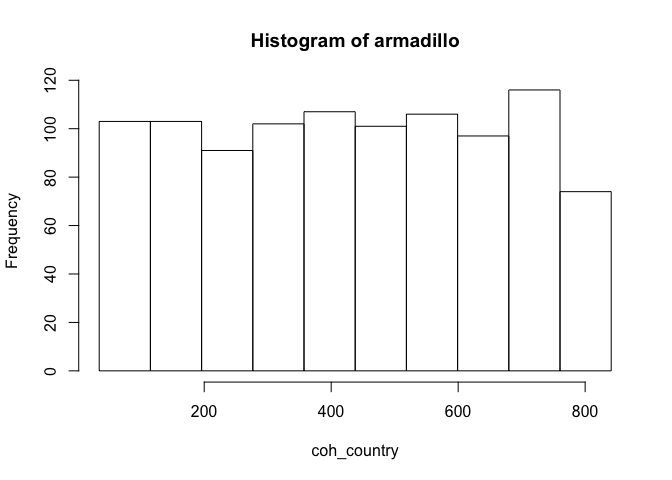
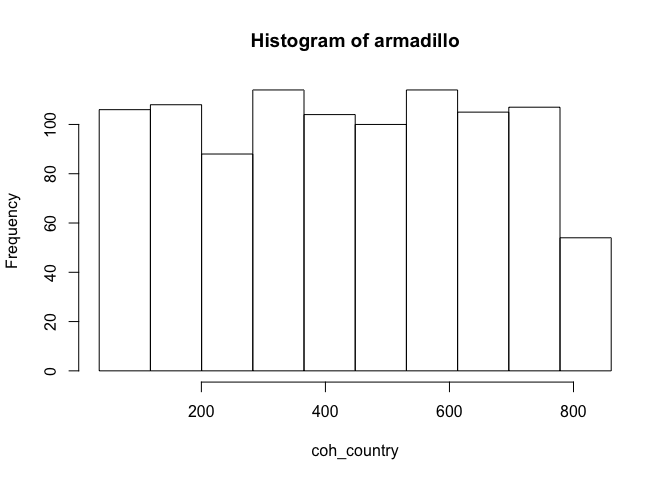
doc: fix README.md
It got generated with wrong version of the package

diff --git a/README.md b/README.md
@@ -107,8 +107,6 @@ documentation to see which methods are available.
 
     # calculate the mean
     ds.mean("core_nonrep$coh_country", datasources = conns)
-    #> [1] "aggregate"
-    #> `meanDS(core_nonrep$coh_country)`
     #> $Mean.by.Study
     #>           EstimatedMean Nmissing Nvalid Ntotal
     #> armadillo       431.105        0   1000   1000
@@ -122,32 +120,24 @@ documentation to see which methods are available.
 
     # create a histogram
     ds.histogram(x = "core_nonrep$coh_country", datasources = conns)
-    #> [1] "aggregate"
-    #> exists("core_nonrep")
-    #> [1] "aggregate"
-    #> classDS("core_nonrep$coh_country")
-    #> [1] "aggregate"
-    #> `histogramDS1(core_nonrep$coh_country,1,3,0.25)`
-    #> [1] "aggregate"
-    #> "histogramDS2(core_nonrep$coh_country,10,34.5963555689156,841.038183310907,1,3,0.25)"
     #> Warning: armadillo: 0 invalid cells
 
 <img src="man/figures/README-unnamed-chunk-8-1.png" width="100%" />
 
     #> $breaks
-    #>  [1]  34.59636 115.24054 195.88472 276.52890 357.17309 437.81727 518.46145
-    #>  [8] 599.10563 679.74982 760.39400 841.03818
+    #>  [1]  35.24049 117.79616 200.35183 282.90750 365.46318 448.01885 530.57452
+    #>  [8] 613.13019 695.68587 778.24154 860.79721
     #> 
     #> $counts
-    #>  [1] 103 103  91 102 107 101 106  97 116  74
+    #>  [1] 106 108  88 114 104 100 114 105 107  54
     #> 
     #> $density
-    #>  [1] 0.0012772155 0.0012772155 0.0011284137 0.0012648153 0.0013268161
-    #>  [6] 0.0012524152 0.0013144159 0.0012028146 0.0014384175 0.0009176111
+    #>  [1] 0.0012839820 0.0013082081 0.0010659473 0.0013808863 0.0012597560
+    #>  [6] 0.0012113038 0.0013808863 0.0012718690 0.0012960951 0.0006541041
     #> 
     #> $mids
-    #>  [1]  74.91845 155.56263 236.20681 316.85100 397.49518 478.13936 558.78354
-    #>  [8] 639.42773 720.07191 800.71609
+    #>  [1]  76.51832 159.07399 241.62967 324.18534 406.74101 489.29668 571.85236
+    #>  [8] 654.40803 736.96370 819.51938
     #> 
     #> $xname
     #> [1] "xvect"
